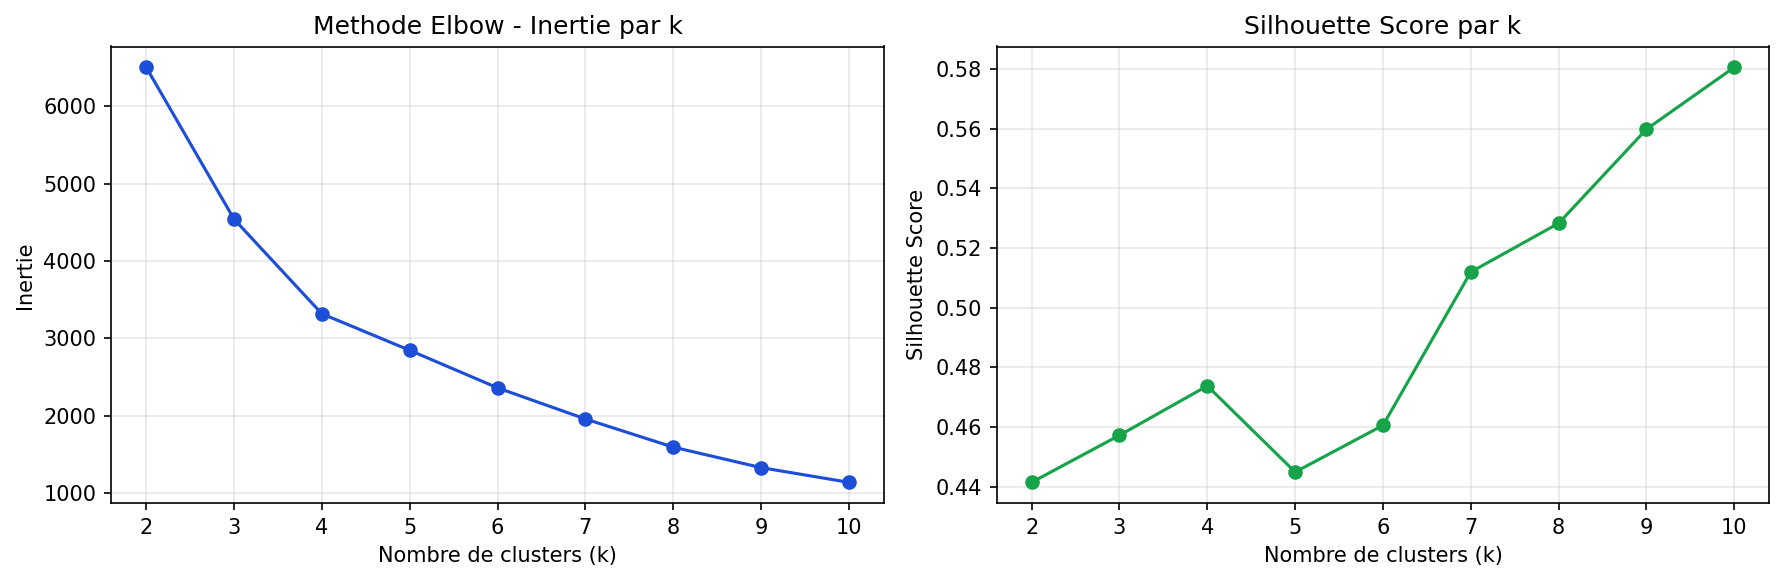
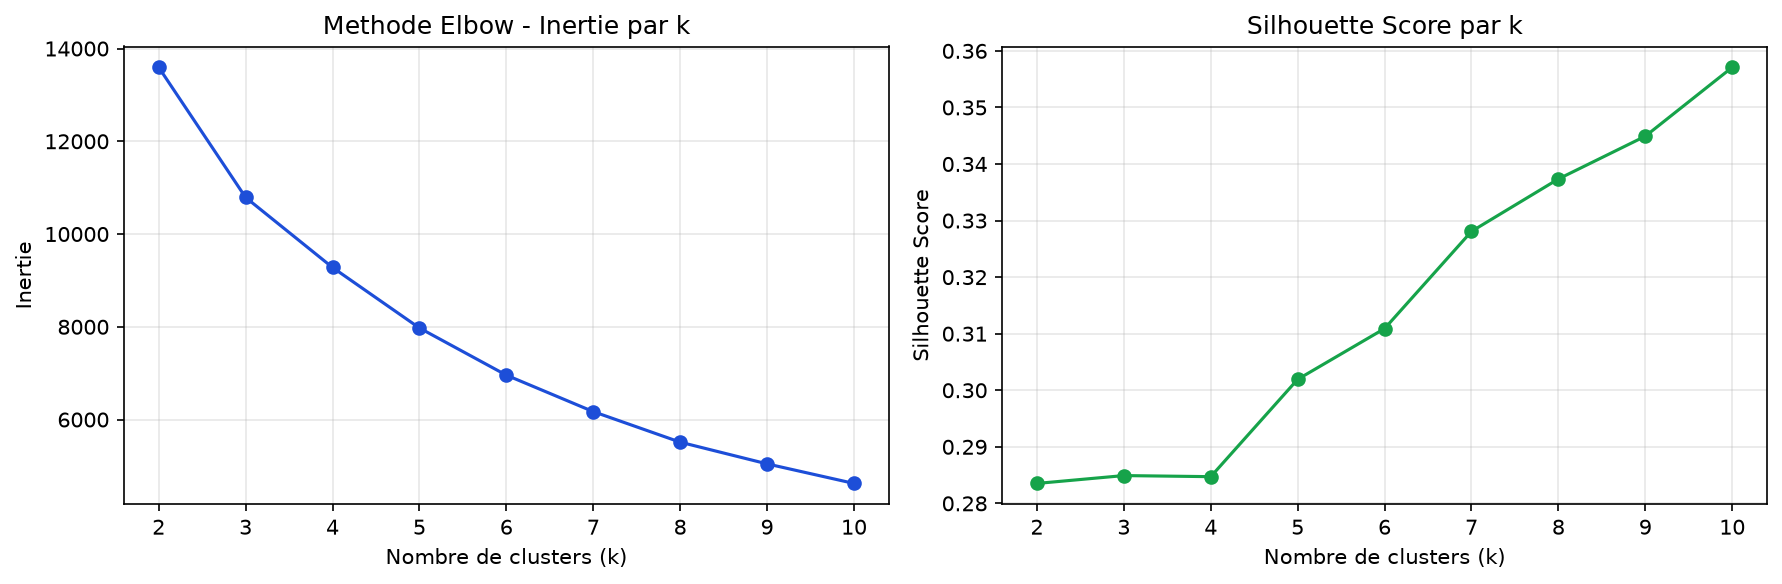
fix: enforce local dev server origins in CORS middleware

diff --git a/api/main.py b/api/main.py
@@ -30,9 +30,17 @@ origins = os.getenv(
     "http://localhost:5173,http://127.0.0.1:5173",
 ).split(",")
 
+# On nettoie les origines
+origins = [o.strip() for o in origins if o.strip()]
+
+# On s'assure que le dev local est TOUJOURS autorisé, même si une URL de prod est définie
+for dev_origin in ["http://localhost:5173", "http://127.0.0.1:5173", "http://localhost:3000"]:
+    if dev_origin not in origins:
+        origins.append(dev_origin)
+
 app.add_middleware(
     CORSMiddleware,
-    allow_origins=[o.strip() for o in origins if o.strip()],
+    allow_origins=origins,
     allow_credentials=True,
     allow_methods=["GET"],
     allow_headers=["*"],